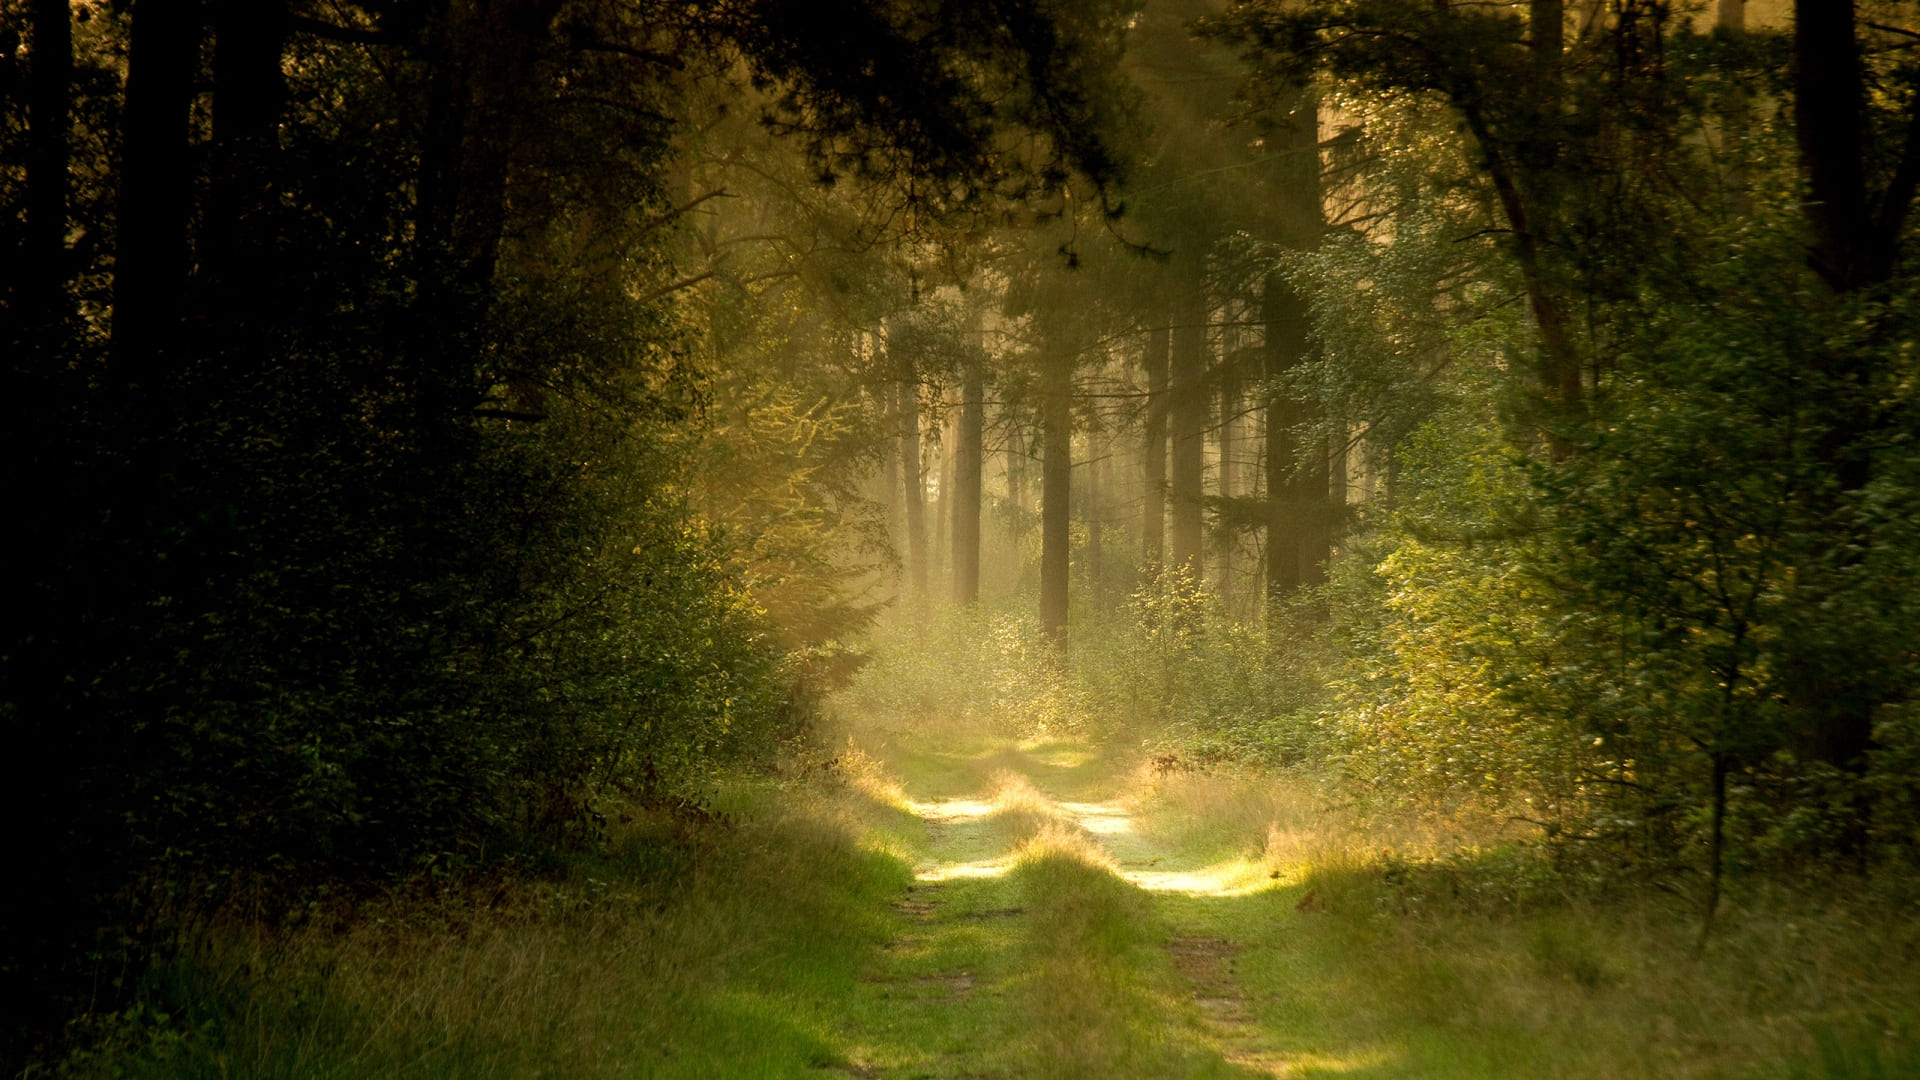
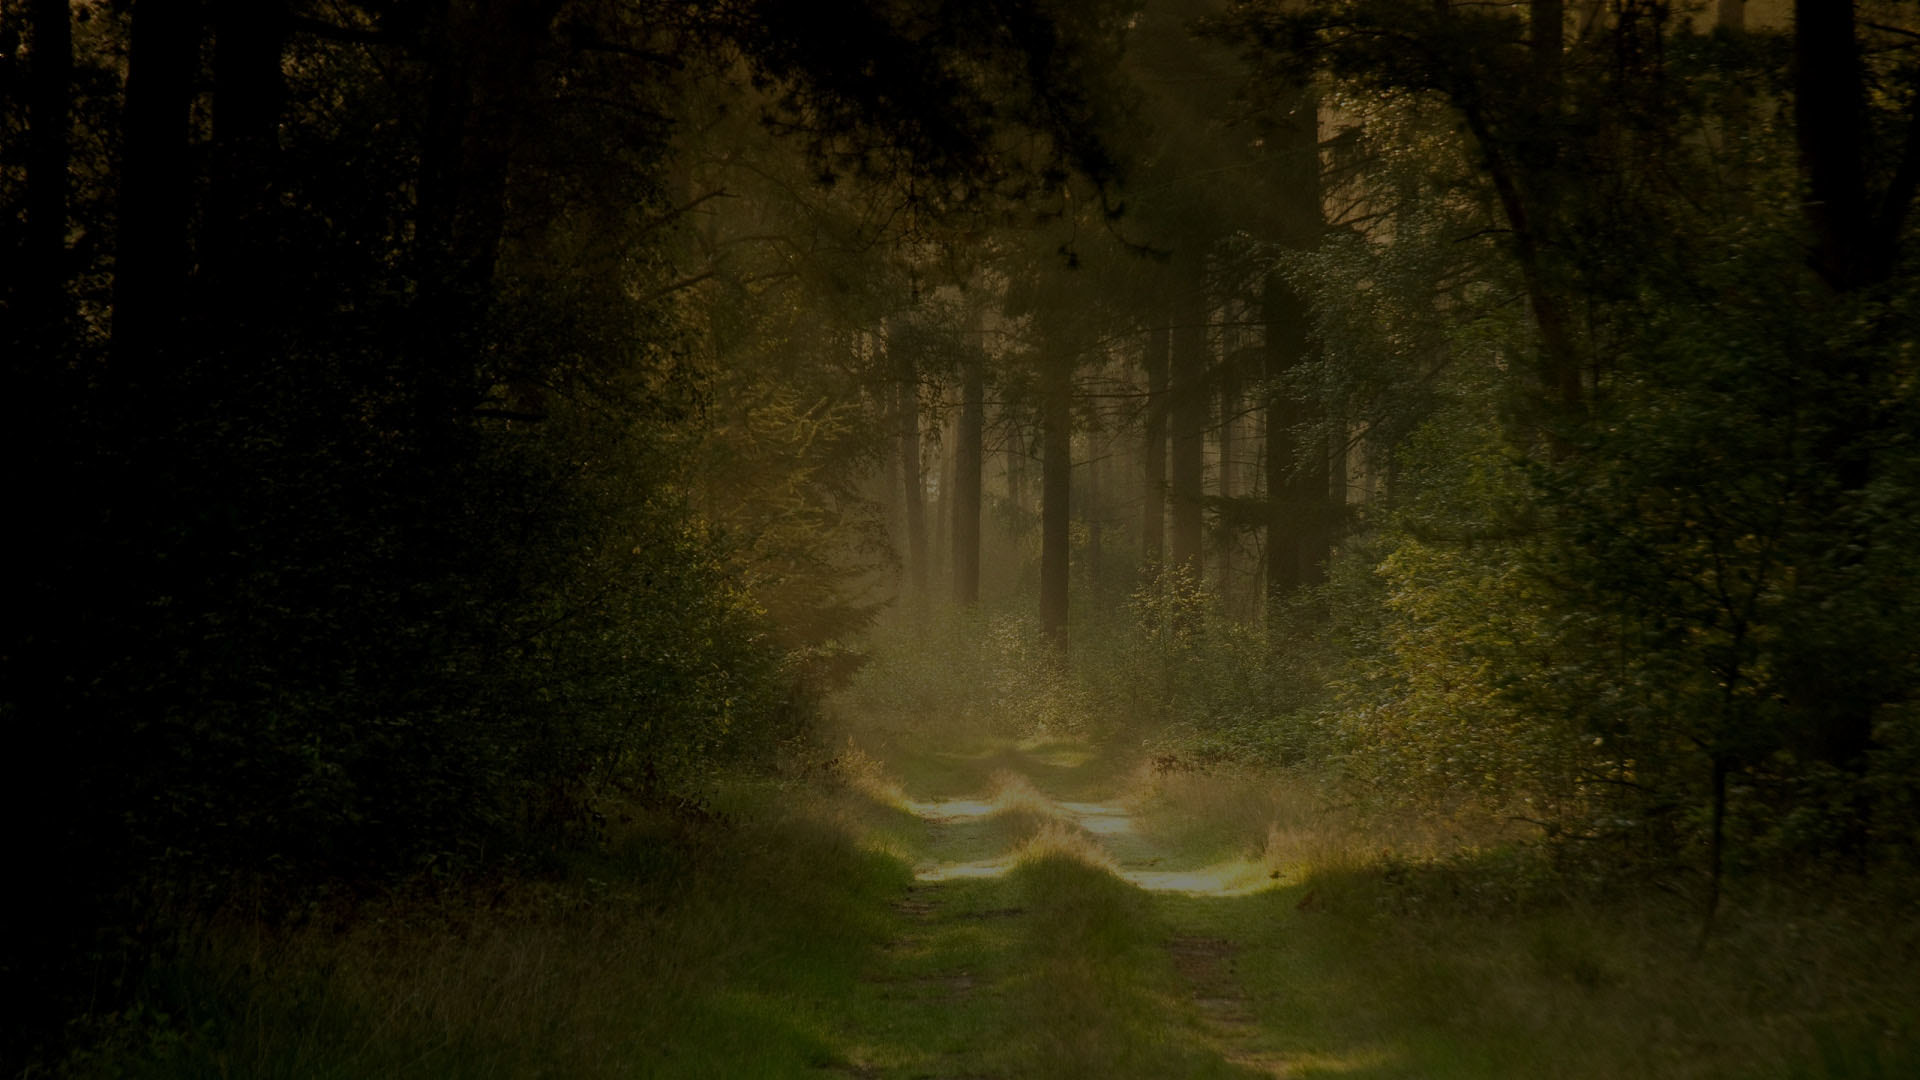
fix: fix background for section

diff --git a/eco-sounds/css/style.css b/eco-sounds/css/style.css
@@ -91,7 +91,7 @@
 body {
   max-width: 1440px;
   margin: 0 auto;
-  padding: 20px;
+  padding: 8px 8px 0 8px;
   background-color: #000000;
 }
 
@@ -109,7 +109,7 @@ header {
   -webkit-box-align: center;
       -ms-flex-align: center;
           align-items: center;
-  margin-bottom: 70px;
+  margin-bottom: 10px;
 }
 
 @media (max-width: 940px) {
@@ -144,6 +144,8 @@ header {
   -webkit-box-pack: center;
       -ms-flex-pack: center;
           justify-content: center;
+  margin-bottom: 30px;
+  background-image: url(../assets/img/forest.jpg);
 }
 
 .cards-container__card {
@@ -160,15 +162,24 @@ header {
   -webkit-box-align: center;
       -ms-flex-align: center;
           align-items: center;
-  padding: 20px;
+  margin: 35px;
+  padding: 15px;
   border: 2px solid #bdae82;
   -webkit-transition: 1s;
   transition: 1s;
+  background-color: rgba(0, 0, 0, 0.7);
 }
 
 .cards-container__card:hover {
   -webkit-transform: scale(1.1);
           transform: scale(1.1);
+}
+
+@media (max-width: 380px) {
+  .cards-container__card:hover {
+    -webkit-transform: none;
+            transform: none;
+  }
 }
 
 .cards-container__image {
@@ -182,6 +193,13 @@ header {
 .cards-container__image:hover {
   -webkit-transform: scale(1.5);
           transform: scale(1.5);
+}
+
+@media (max-width: 380px) {
+  .cards-container__image:hover {
+    -webkit-transform: none;
+            transform: none;
+  }
 }
 
 .cards-container__description {
@@ -238,6 +256,16 @@ header {
   -webkit-box-align: center;
       -ms-flex-align: center;
           align-items: center;
+}
+
+@media (max-width: 380px) {
+  .footer-container {
+    -webkit-box-pack: center;
+        -ms-flex-pack: center;
+            justify-content: center;
+    -ms-flex-wrap: wrap;
+        flex-wrap: wrap;
+  }
 }
 
 .footer-container__text {

diff --git a/eco-sounds/index.html b/eco-sounds/index.html
@@ -17,21 +17,22 @@
         </div>
     </header>
     <main>
-        <section class="cards-container"></section>
-        <!-- <svg class="icon">
-            <use xlink:href="./assets/svg/sprite.svg#download"></use>
-        </svg> -->
+        <section class="cards-container">
+        </section>
     </main>
     <footer>
         <div class="footer-container">
-            <div>
-                <span class="footer-container__text"> © </span>
-                <span class="footer-container__text"> 2022 </span>
-                <a href="https://github.com/JackFrost58" class="link"> github </a>
-            </div>
-            <svg class="icon link">
-                <use xlink:href="./assets/svg/sprite.svg#rss"></use>
-            </svg>
+            <a href="https://github.com/JackFrost58"> 
+                <svg class="icon link">
+                    <use xlink:href="./assets/svg/sprite.svg#github"></use>
+                </svg>
+            </a>
+            <span class="footer-container__text">© 2022 by Vladislav Zhgirov</span>
+            <a href="https://rs.school/">
+                <svg class="icon link">
+                    <use xlink:href="./assets/svg/sprite.svg#rss"></use>
+                </svg>
+            </a>
         </div>
     </footer>
    <script type="module" src="./js/index.js"></script>

diff --git a/eco-sounds/js/helper.js b/eco-sounds/js/helper.js
@@ -8,6 +8,7 @@ function createButtons() {
 
         button.className = 'button';
         button.innerHTML = element;
+        button.addEventListener('click', changeCard)
         listButtons.appendChild(button);
     });
 }
@@ -19,9 +20,11 @@ function changeCard(event) {
         const containerCards = document.querySelector('.cards-container');
         const nameBird = event.target.innerHTML;
 
+        switchBackground(nameBird);
         changeActiveButton(button, 'button_pressed');
         removeCard(containerCards);
         containerCards.appendChild(createCard(nameBird));
+        playSong();
     }
 }
 
@@ -170,6 +173,20 @@ function changeActiveButton(currentButton, nameClassActiveButton) {
         
         currentButton.classList.add(nameClassActiveButton);
     }
+}
+
+function setMainImage(){
+    const cardContainer = document.querySelector('.cards-container');
+
+    cardContainer.appendChild();
+}
+
+function switchBackground(nameBird) {
+    const section = document.querySelector('.cards-container');
+    const translateBird = TRANSLATE_NAME_BIRDS[nameBird];
+    //console.log('section', `url(./assets/img/${translateBird})`);
+
+    section.style.backgroundImage = `url(assets/img/${translateBird}/${translateBird}.jpg)`
 }
 
 export {createButtons, changeCard};

diff --git a/eco-sounds/css/layout/_section-cards.scss b/eco-sounds/css/layout/_section-cards.scss
@@ -1,6 +1,8 @@
 .cards-container {
     display: flex;
     justify-content: center;
+    margin-bottom: 30px;
+    background-image: url(../assets/img/forest.jpg);
 }
 
 .cards-container__card {
@@ -8,12 +10,20 @@
     flex-direction: column;
     justify-content: center;
     align-items: center;
-    padding: 20px;
+    margin: 35px;
+    padding: 15px;
     border:  2px solid $color--main;
     transition: 1s;
+    background-color: rgba($color: $color--black, $alpha: 0.7);
 
     &:hover {
         transform: scale(1.1);
+    }
+
+    @media (max-width: $mobile) {
+        &:hover {
+            transform: none
+        }
     }
 }
 
@@ -25,6 +35,12 @@
 
     &:hover {
         transform: scale(1.5);
+    }
+
+    @media (max-width: $mobile) {
+        &:hover {
+            transform: none
+        }
     }
 }
 

diff --git a/eco-sounds/js/index.js b/eco-sounds/js/index.js
@@ -1,7 +1,3 @@
-import { createButtons, changeCard } from "./helper.js";
-
-const listButtons = document.querySelector('.list-buttons');
+import { createButtons} from "./helper.js";
 
 createButtons()
-
-listButtons.addEventListener('click', changeCard);

diff --git a/eco-sounds/css/layout/_footer.scss b/eco-sounds/css/layout/_footer.scss
@@ -3,6 +3,11 @@
     flex-direction: row;
     justify-content: space-between;
     align-items: center;
+
+    @media (max-width: $mobile) {
+        justify-content: center;
+        flex-wrap: wrap;
+    }
 }
 
 .footer-container__text {

diff --git a/eco-sounds/css/layout/_header.scss b/eco-sounds/css/layout/_header.scss
@@ -3,7 +3,7 @@ header {
     flex-direction: row;
     justify-content: space-between;
     align-items: center;
-    margin-bottom: 70px;
+    margin-bottom: 10px;
     @media (max-width: $tablet) {
         flex-direction: column;
     }

diff --git a/eco-sounds/css/abstract/_variables.scss b/eco-sounds/css/abstract/_variables.scss
@@ -1,5 +1,6 @@
 $color--main: #bdae82; 
 $color--white: #FFFFFF;
+$color--black: #000000;
 $font-IR: "InterRegular", sans-serif;
 $font-IB: "InterBold", sans-serif;
 $tablet: 940px;

diff --git a/eco-sounds/css/layout/_body.scss b/eco-sounds/css/layout/_body.scss
@@ -1,6 +1,6 @@
 body {
     max-width: $desktop;
     margin:  0 auto;
-    padding: 20px;
+    padding: 8px 8px 0 8px;
     background-color: #000000;
 }
